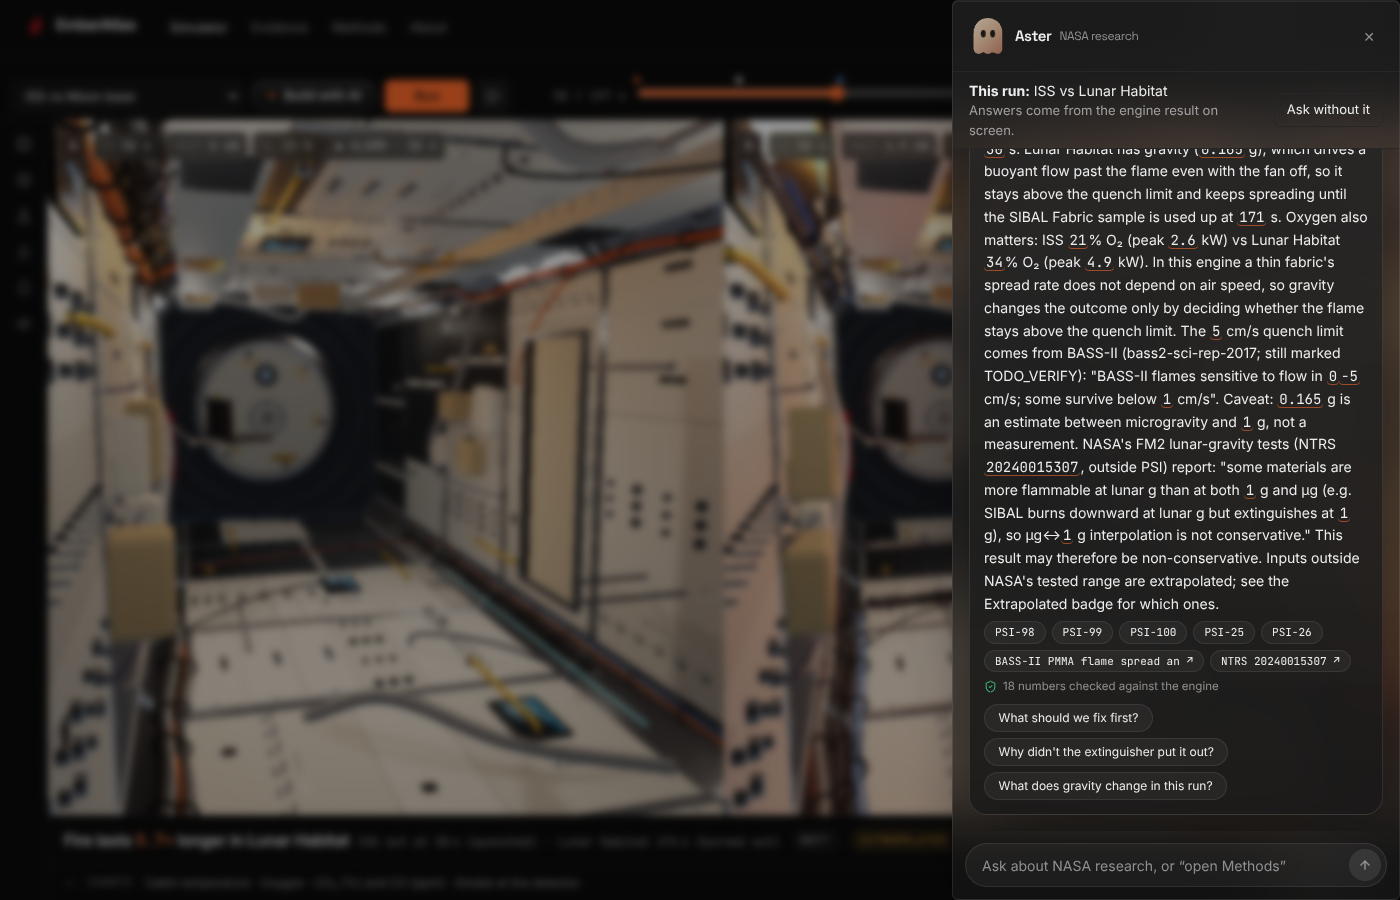
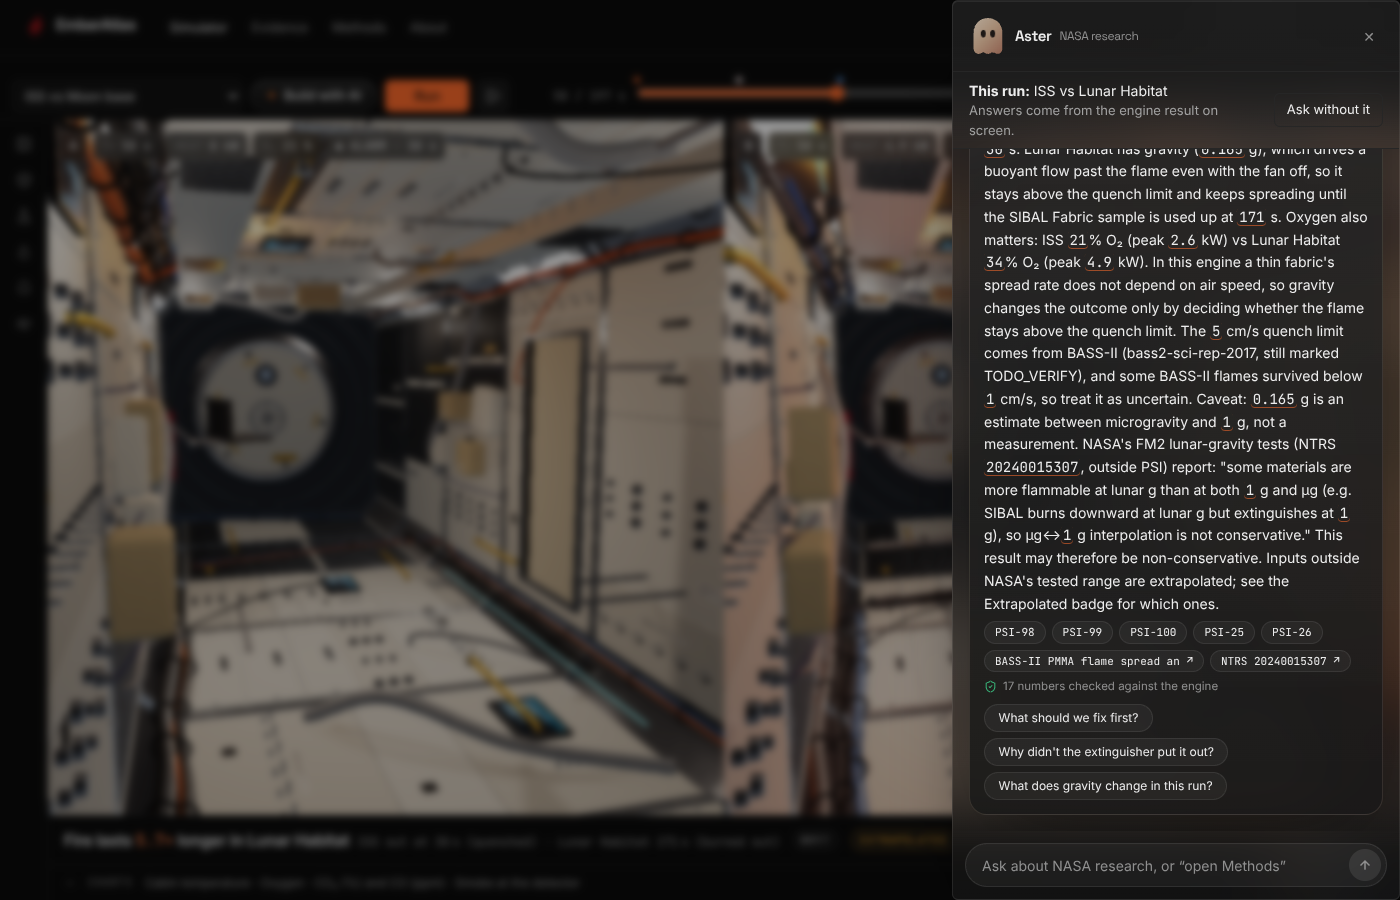
U2: in-page search on Methods and Evidence; fix Evidence PSI row double count
- lib/search/pageSearch.ts indexes the rendered page (sections, equation cards, limitations, validation rows,
  PSI dataset rows, SAFFIRE-II samples, materials, references) so it never drifts from what is shown.
  AND-prefix matching with title weighting, subscript/µ normalisation, snippets and <mark> highlights.
- components/search/PageSearch.tsx: '/' to focus, ↑/↓/Enter/Esc, ?q= kept in the URL, deep links open the
  collapsed equation card (also for Aster citations and shared links). Not a ⌘K palette.
- Evidence: '2,844 rows' counted the shared SAFFIRE table once per accession; now 2,818 like the landing page.
- Tests: tests/search.test.ts, e2e/upgrades.spec.ts (U2).

Claude-Session: https://claude.ai/code/session_01TpeYhpHZf9UxAWGPj4XFH7

Changed region(s): [[0.7064, 0.3733, 0.9829, 0.4978], [0.7679, 0.7467, 0.86, 0.7778]]

diff --git a/web/lib/search/pageSearch.ts b/web/lib/search/pageSearch.ts
@@ -1,0 +1,124 @@
+// SI-assisted: written with Claude Code (Anthropic); see README "Use of AI (SI)".
+// In-page full-text search (Methods, Evidence). The index is the rendered page itself, so it can never drift from
+// what the reader sees: sections, equation cards, limitations, validation rows, PSI dataset rows and references.
+// Pure functions (normalise / tokenise / score / snippet) are unit-tested; `indexDom` is the only DOM-reading code.
+
+export type HitKind = "Equation" | "Model" | "Section" | "Limitation" | "Validation" | "NASA dataset" | "Source" | "Sample" | "Material";
+export interface Entry { anchor: string; title: string; text: string; kind: HitKind }
+export interface Hit extends Entry { score: number; snippet: string }
+
+const SUB = "₀₁₂₃₄₅₆₇₈₉";
+/** Lower-case, subscript digits → digits, µ → u. Length-preserving so match offsets map back to the original text. */
+export function norm(s: string): string {
+  let o = "";
+  for (const ch of s.toLowerCase()) { const i = SUB.indexOf(ch); o += i >= 0 ? String(i) : ch === "µ" || ch === "μ" ? "u" : ch; }
+  return o;
+}
+export const tokens = (s: string): string[] => norm(s).match(/[a-z0-9]+/g) ?? [];
+
+export function kindOf(anchor: string, fallback: HitKind = "Section"): HitKind {
+  if (anchor.startsWith("eq-")) return "Equation";
+  if (anchor.startsWith("model-")) return "Model";
+  if (anchor.startsWith("source-")) return "Source";
+  if (anchor.startsWith("val-")) return "Validation";
+  if (/^psi-\d+$/.test(anchor)) return "NASA dataset";
+  if (anchor.startsWith("limit")) return "Limitation";
+  return fallback;
+}
+
+const KIND_BONUS: Record<HitKind, number> = { Equation: 1.5, "NASA dataset": 1.5, Limitation: 1.2, Material: 1.2, Model: 1, Validation: 1, Source: 0.8, Sample: 0.8, Section: 0.5 };
+
+/** Every query token must prefix-match a token of the entry (AND). Title hits weigh 4×; exact accession/id hits win. */
+export function search(entries: Entry[], query: string, k = 8): Hit[] {
+  const q = tokens(query);
+  if (!q.length) return [];
+  const out: Hit[] = [];
+  for (const e of entries) {
+    const tt = tokens(e.title), xt = tokens(e.text);
+    let score = 0, all = true;
+    for (const t of q) {
+      const inTitle = tt.some((w) => w.startsWith(t)), inText = xt.some((w) => w.startsWith(t));
+      if (!inTitle && !inText) { all = false; break; }
+      score += (inTitle ? 4 : 0) + (inText ? 1 : 0) + (tt.includes(t) || xt.includes(t) ? 0.5 : 0);
+    }
+    if (!all) continue;
+    if (norm(e.anchor).replace(/-/g, "") === q.join("")) score += 10; // "psi 25" / "eq sp1" → that entry
+    score += KIND_BONUS[e.kind] - Math.min(1, e.text.length / 4000);
+    out.push({ ...e, score, snippet: snippet(e.text, q) });
+  }
+  return out.sort((a, b) => b.score - a.score).slice(0, k);
+}
+
+/** ~160 characters around the first query-token match. */
+export function snippet(text: string, q: string[], width = 160): string {
+  const n = norm(text);
+  let at = -1;
+  for (const t of q) { const re = new RegExp(`(?:^|[^a-z0-9])${t.replace(/[.*+?^${}()|[\]\\]/g, "\\$&")}`); const m = re.exec(n); if (m && (at < 0 || m.index < at)) at = m.index; }
+  if (at < 0) return text.slice(0, width);
+  const start = Math.max(0, at - Math.floor(width / 3));
+  return `${start > 0 ? "…" : ""}${text.slice(start, start + width).trim()}${start + width < text.length ? "…" : ""}`;
+}
+
+/** Split `text` into [plain, match, plain, match…] parts for <mark> highlighting. */
+export function highlightParts(text: string, query: string): { s: string; hit: boolean }[] {
+  const q = tokens(query);
+  if (!q.length) return [{ s: text, hit: false }];
+  const n = norm(text);
+  const re = new RegExp(`(${q.map((t) => t.replace(/[.*+?^${}()|[\]\\]/g, "\\$&")).join("|")})`, "g");
+  const parts: { s: string; hit: boolean }[] = [];
+  let last = 0;
+  for (let m = re.exec(n); m; m = re.exec(n)) {
+    if (m.index > last) parts.push({ s: text.slice(last, m.index), hit: false });
+    parts.push({ s: text.slice(m.index, m.index + m[0].length), hit: true });
+    last = m.index + m[0].length;
+    if (m[0].length === 0) re.lastIndex++;
+  }
+  if (last < text.length) parts.push({ s: text.slice(last), hit: false });
+  return parts;
+}
+
+const clean = (s: string) => s.replace(/\s+/g, " ").replace(/\s+([.,;:)])/g, "$1").replace(/([(])\s+/g, "$1").trim();
+/** Text of an element with a space at every element boundary ("SP1" + "de Ris…" → "SP1 de Ris…"). */
+function textOf(node: Node): string {
+  let out = "";
+  const walk = (n: Node) => {
+    if (n.nodeType === 3) out += n.nodeValue ?? "";
+    else if (n.nodeType === 1) { out += " "; n.childNodes.forEach(walk); out += " "; }
+  };
+  walk(node);
+  return out;
+}
+
+/** Build the index from the rendered page. Items: anything with an id inside `root`, plus `[data-search-item]`. */
+export function indexDom(root: ParentNode): Entry[] {
+  const out: Entry[] = [];
+  const seen = new Set<string>();
+  const els = root.querySelectorAll<HTMLElement>("section[id], article[id], details[id], li[id], tr[id], [data-search-item], [data-search-items] > *");
+  els.forEach((el) => {
+    const anchor = el.id || el.closest<HTMLElement>("[id]")?.id || "";
+    if (!anchor) return;
+    const copy = el.cloneNode(true) as HTMLElement;
+    copy.querySelectorAll(".katex, button, [data-search-skip], script, style").forEach((x) => x.remove());
+    const headEl = [...el.querySelectorAll("h1, h2, h3, summary, strong, b, th, td, a")].find((x) => x.textContent?.trim());
+    const head = el.dataset.searchTitle ?? (headEl ? textOf(headEl) : el.id);
+    const title = clean(head).replace(/^\d{2}\s+/, "");
+    const text = clean(textOf(copy)).slice(0, 1200);
+    const key = `${anchor}|${title}`;
+    if (!title || seen.has(key)) return;
+    seen.add(key);
+    out.push({ anchor, title: title.length > 110 ? `${title.slice(0, 108)}…` : title, text, kind: kindOf(el.id || anchor, (el.dataset.searchKind as HitKind) || (el.parentElement?.dataset.searchItems as HitKind) || "Section") });
+  });
+  return out;
+}
+
+/** Scroll to an anchor, opening any <details> it sits in (equation cards are collapsed by default). */
+export function reveal(anchor: string, smooth = true): boolean {
+  const el = document.getElementById(anchor);
+  if (!el) return false;
+  if (el instanceof HTMLDetailsElement) el.open = true;
+  for (let p = el.parentElement; p; p = p.parentElement) if (p instanceof HTMLDetailsElement) p.open = true;
+  el.scrollIntoView({ behavior: smooth ? "smooth" : "auto", block: "start" });
+  el.classList.add("ea-search-target");
+  window.setTimeout(() => el.classList.remove("ea-search-target"), 1800);
+  return true;
+}

diff --git a/web/components/search/PageSearch.tsx b/web/components/search/PageSearch.tsx
@@ -1,0 +1,86 @@
+"use client";
+// SI-assisted: written with Claude Code (Anthropic); see README "Use of AI (SI)".
+// Inline search for Methods and Evidence (not a ⌘K palette): "/" focuses it, ↑/↓ moves, Enter opens the section,
+// Esc closes. Matches are highlighted; the query is kept in ?q= so a search can be shared; deep links open the
+// equation card they point into.
+import { Search, X } from "lucide-react";
+import { useEffect, useMemo, useRef, useState } from "react";
+import { highlightParts, indexDom, reveal, search, type Entry, type Hit } from "@/lib/search/pageSearch";
+
+function Mark({ text, q }: { text: string; q: string }) {
+  return <>{highlightParts(text, q).map((p, i) => (p.hit ? <mark key={i} className="ea-mark">{p.s}</mark> : <span key={i}>{p.s}</span>))}</>;
+}
+
+export function PageSearch({ placeholder, rootSelector = "main", testid = "page-search" }: { placeholder: string; rootSelector?: string; testid?: string }) {
+  const input = useRef<HTMLInputElement>(null);
+  const [q, setQ] = useState("");
+  const [open, setOpen] = useState(false);
+  const [active, setActive] = useState(0);
+  const [entries, setEntries] = useState<Entry[]>([]);
+  const hits: Hit[] = useMemo(() => search(entries, q, 8), [entries, q]);
+  const build = () => { const root = document.querySelector(rootSelector); if (root) setEntries(indexDom(root)); };
+
+  useEffect(() => {
+    build();
+    const url = new URL(window.location.href);
+    const q0 = url.searchParams.get("q");
+    if (q0) { setQ(q0); setOpen(true); }
+    // Deep links (Aster citations, shared URLs) into a collapsed equation card: open it.
+    if (url.hash.length > 1) window.setTimeout(() => reveal(decodeURIComponent(url.hash.slice(1)), false), 60);
+    const onKey = (e: KeyboardEvent) => {
+      const t = e.target as HTMLElement | null;
+      if (e.key === "/" && !e.metaKey && !e.ctrlKey && !(t && (t.isContentEditable || /^(INPUT|TEXTAREA|SELECT)$/.test(t.tagName)))) { e.preventDefault(); input.current?.focus(); }
+    };
+    window.addEventListener("keydown", onKey);
+    return () => window.removeEventListener("keydown", onKey);
+    // eslint-disable-next-line react-hooks/exhaustive-deps
+  }, []);
+
+  const syncUrl = (v: string) => {
+    const url = new URL(window.location.href);
+    if (v.trim()) url.searchParams.set("q", v.trim()); else url.searchParams.delete("q");
+    window.history.replaceState(window.history.state, "", url);
+  };
+  const go = (h: Hit) => {
+    const reduce = window.matchMedia?.("(prefers-reduced-motion: reduce)").matches;
+    window.history.replaceState(window.history.state, "", `${window.location.pathname}${window.location.search}#${h.anchor}`);
+    reveal(h.anchor, !reduce);
+    setOpen(false);
+  };
+
+  return (
+    <div className="relative w-full max-w-[640px]" data-testid={testid} data-noprint>
+      <label className="sr-only" htmlFor={`${testid}-input`}>Search this page</label>
+      <div className="flex h-10 items-center gap-2 rounded-[6px] border border-line bg-panel px-3 focus-within:border-mute focus-within:ring-1 focus-within:ring-mute/40">
+        <Search size={15} strokeWidth={1.5} className="shrink-0 text-faint" aria-hidden />
+        <input ref={input} id={`${testid}-input`} type="text" inputMode="search" enterKeyHint="search" role="combobox" aria-expanded={open && q.trim().length > 0} aria-controls={`${testid}-results`}
+          aria-activedescendant={open && hits[active] ? `${testid}-opt-${active}` : undefined} autoComplete="off" spellCheck={false}
+          className="ea-search-input h-full min-w-0 flex-1 border-0 bg-transparent p-0 text-[14px]" placeholder={placeholder} value={q}
+          onFocus={() => { build(); setOpen(true); }}
+          onChange={(e) => { setQ(e.target.value); setActive(0); setOpen(true); syncUrl(e.target.value); }}
+          onKeyDown={(e) => {
+            if (e.key === "ArrowDown") { e.preventDefault(); setActive((i) => Math.min(i + 1, Math.max(0, hits.length - 1))); }
+            else if (e.key === "ArrowUp") { e.preventDefault(); setActive((i) => Math.max(0, i - 1)); }
+            else if (e.key === "Enter" && hits[active]) { e.preventDefault(); go(hits[active]); }
+            else if (e.key === "Escape") { setOpen(false); input.current?.blur(); }
+          }}
+          onBlur={() => window.setTimeout(() => setOpen(false), 150)} />
+        {q ? <button type="button" aria-label="Clear search" className="text-faint hover:text-ink" onClick={() => { setQ(""); syncUrl(""); input.current?.focus(); }}><X size={14} strokeWidth={1.5} /></button>
+          : <span className="ea-kbd" aria-hidden>/</span>}
+      </div>
+      {open && q.trim() && (
+        <ul id={`${testid}-results`} role="listbox" aria-label="Search results" className="absolute inset-x-0 top-11 z-40 max-h-[60vh] overflow-auto rounded-[8px] border border-line bg-panel p-1 shadow-xl">
+          {hits.length === 0 && <li className="px-3 py-2.5 text-[13px] text-mute" role="option" aria-selected={false}>No match on this page for “{q.trim()}”.</li>}
+          {hits.map((h, i) => (
+            <li key={`${h.anchor}-${i}`} id={`${testid}-opt-${i}`} role="option" aria-selected={i === active} data-testid="search-hit"
+              className={`cursor-pointer rounded-[6px] px-3 py-2 ${i === active ? "bg-surface2" : ""}`}
+              onMouseEnter={() => setActive(i)} onMouseDown={(e) => { e.preventDefault(); go(h); }}>
+              <div className="flex items-baseline gap-2"><span className="ea-meta shrink-0 !text-[10px]">{h.kind}</span><span className="min-w-0 truncate text-[13px] font-medium text-ink"><Mark text={h.title} q={q} /></span></div>
+              <p className="mt-0.5 line-clamp-2 text-[12px] text-mute"><Mark text={h.snippet} q={q} /></p>
+            </li>
+          ))}
+        </ul>
+      )}
+    </div>
+  );
+}

diff --git a/web/components/evidence/EvidencePage.tsx b/web/components/evidence/EvidencePage.tsx
@@ -12,6 +12,7 @@ import { cn } from "@/lib/utils";
 import { earthVsOrbitSummary, evidenceStops } from "@/lib/sim/evidence";
 import { sig } from "@/lib/ui/format";
 import { ExperimentMatch } from "@/components/match/ExperimentMatch";
+import { PageSearch } from "@/components/search/PageSearch";
 
 type Range = [number, number] | null;
 const pct = (x: number | null | undefined) => (x == null ? "—" : sig(x * 100, 3));
@@ -61,6 +62,7 @@ export function EvidencePage() {
         <p className="label">NASA PSI evidence</p>
         <h1 className="display mt-2 text-[clamp(2rem,5vw,3.6rem)] leading-none">What NASA has tested, and where it stops.</h1>
         <p className="measure mt-3 text-base text-mute">Compare flight results, see where test coverage ends, or find an experiment for your mission.</p>
+        <div className="mt-5"><PageSearch placeholder="Search NASA datasets, materials, samples, PSI numbers…" testid="evidence-search" /></div>
         <nav className="ea-jumps mt-5 lg:hidden" aria-label="Evidence jump links">
           {TOC.map(([id, l]) => <a key={id} href={`#${id}`}>{l}</a>)}
         </nav>
@@ -93,7 +95,7 @@ export function EvidencePage() {
             <tbody>
               {rows.map((r, i) => (
                 <Fragment key={`${r.sample}-${i}`}>
-                <tr className="cursor-pointer" aria-expanded={open === i} tabIndex={0} onClick={() => setOpen(open === i ? null : i)} onKeyDown={(e) => (e.key === "Enter" || e.key === " ") && (e.preventDefault(), setOpen(open === i ? null : i))}>
+                <tr data-search-item data-search-kind="Sample" data-search-title={`SAFFIRE-II sample ${r.sample}`} className="cursor-pointer" aria-expanded={open === i} tabIndex={0} onClick={() => setOpen(open === i ? null : i)} onKeyDown={(e) => (e.key === "Enter" || e.key === " ") && (e.preventDefault(), setOpen(open === i ? null : i))}>
                   <td className="text-faint"><ChevronRight size={12} strokeWidth={1.5} className={cn("transition-transform", open === i && "rotate-90")} /></td>
                   <td className="num">{r.sample}</td><td>{r.material}</td><td className="num ea-numeric">{r.thickness}{/^0\d/.test(String(r.thickness)) && <span className="text-warn" title="Raw PSI-99 cell, shown as written (decimal point likely missing)"> †</span>}</td>
                   <td className="num ea-numeric">{r.x_o2_lo === r.x_o2_hi || r.x_o2_hi == null ? pct(r.x_o2_lo) : `${pct(r.x_o2_lo)}–${pct(r.x_o2_hi)}`}%</td>
@@ -127,7 +129,7 @@ export function EvidencePage() {
         <div className="ea-table-scroll ea-research-table overflow-x-auto" tabIndex={0} role="region" aria-labelledby="stops-h">
           <table className="data">
             <thead><tr><th>material</th><th className="ea-numeric">tested O₂ %</th><th className="ea-numeric">tested pressure kPa</th><th className="ea-numeric">tested flow cm/s</th><th>investigations</th></tr></thead>
-            <tbody>
+            <tbody data-search-items="Material">
               {stops.rows.map((r) => (
                 <tr key={r.material_key}>
                   <td>{r.display_name}</td>
@@ -146,7 +148,7 @@ export function EvidencePage() {
 
       <section id="psi-datasets" aria-labelledby="psi-h" className="ea-evidence-section space-y-4 scroll-mt-24">
         <h2 id="psi-h" className="text-[22px] font-semibold tracking-[-0.02em]">NASA PSI datasets in EmberAtlas<CopyLink id="psi-datasets" label="PSI datasets" /></h2>
-        <p className="measure text-mute"><span className="num">{psi.length}</span> accessions, <span className="num">{psi.reduce((s, p) => s + p.rows, 0).toLocaleString("en-US")}</span> rows with provenance. Click a dataset for its source files.</p>
+        <p className="measure text-mute"><span className="num">{psi.length}</span> accessions, <span className="num">{(tablesIndex as Table[]).reduce((s, t) => s + t.rows, 0).toLocaleString("en-US")}</span> rows with provenance (a table shared by several accessions is counted once). Click a dataset for its source files.</p>
         <div className="ea-table-scroll overflow-x-auto" role="region" aria-labelledby="psi-h" tabIndex={0}>
           <table className="data">
             <thead><tr><th className="w-6" aria-label="Expand" /><th>accession</th><th>investigation</th><th className="ea-numeric">rows</th></tr></thead>

diff --git a/web/tests/search.test.ts b/web/tests/search.test.ts
@@ -1,0 +1,41 @@
+// SI-assisted: written with Claude Code (Anthropic); see README "Use of AI (SI)".
+// U2: in-page search over Methods and Evidence.
+import { describe, expect, it } from "vitest";
+import { highlightParts, kindOf, norm, search, snippet, tokens, type Entry } from "@/lib/search/pageSearch";
+
+const E: Entry[] = [
+  { anchor: "eq-SP1", kind: "Equation", title: "SP1 de Ris thin-fuel spread (full thickness d)", text: "Estimates how quickly flame advances along thin fuel. Vthin: speed (m/s)" },
+  { anchor: "psi-25", kind: "NASA dataset", title: "PSI-25 BASS-II", text: "Burning and Suppression of Solids - II, 129 rows" },
+  { anchor: "limitations", kind: "Limitation", title: "Gravity only switches the low-flow quench.", text: "For a thin fuel, the de Ris spread rate does not depend on the opposed-flow speed…" },
+  { anchor: "source-ntrs-20240015307", kind: "Source", title: "FM2 (Flammability of Materials on the Moon), NTRS 20240015307", text: "ntrs-20240015307 · 2024" },
+  { anchor: "where-evidence-stops", kind: "Material", title: "SIBAL Fabric", text: "SIBAL Fabric 14.7–22.1 PSI-98, PSI-99, PSI-100" },
+];
+
+describe("page search", () => {
+  it("normalises subscripts and µ so 'CO2' finds 'CO₂' and 'ug' finds 'µg'", () => {
+    expect(norm("CO₂ µg")).toBe("co2 ug");
+    expect(norm("CO₂ µg").length).toBe("CO₂ µg".length);
+  });
+  it("AND-matches prefixes and ranks title hits first", () => {
+    const h = search(E, "thin spread");
+    expect(h[0].anchor).toBe("eq-SP1");
+    expect(h.map((x) => x.anchor)).toContain("limitations");
+  });
+  it("exact accession query jumps to the dataset", () => expect(search(E, "psi 25")[0].anchor).toBe("psi-25"));
+  it("finds materials, FM2 and the gravity limitation", () => {
+    expect(search(E, "sibal")[0].kind).toBe("Material");
+    expect(search(E, "moon")[0].anchor).toBe("source-ntrs-20240015307");
+    expect(search(E, "gravity quench")[0].kind).toBe("Limitation");
+  });
+  it("returns nothing for a missing term (no fuzzy invention)", () => expect(search(E, "parchment")).toEqual([]));
+  it("highlights every query token and builds a snippet around the first match", () => {
+    const parts = highlightParts("Burning and Suppression of Solids", "supp sol");
+    expect(parts.filter((p) => p.hit).map((p) => p.s)).toEqual(["Supp", "Sol"]);
+    expect(snippet("x ".repeat(200) + "quench here", tokens("quench"))).toContain("quench");
+  });
+  it("infers kinds from anchors", () => {
+    expect(kindOf("eq-DR1")).toBe("Equation");
+    expect(kindOf("psi-100")).toBe("NASA dataset");
+    expect(kindOf("val-V1")).toBe("Validation");
+  });
+});

diff --git a/web/app/methods/page.tsx b/web/app/methods/page.tsx
@@ -1,6 +1,7 @@
 // SI-assisted: written with Claude Code (Anthropic); see README "Use of AI (SI)".
 // Plain-language methods: engine loop, sub-models + calibration source, validation, limitations, data, use of AI.
 import { AskAsterButton } from "@/components/AskAsterButton";
+import { PageSearch } from "@/components/search/PageSearch";
 import fs from "node:fs";
 import path from "node:path";
 import { EQUATIONS } from "@/lib/equations";
@@ -77,6 +78,7 @@ export default function Methods() {
         <h1 className="display mt-3 text-4xl md:text-7xl">Methods &amp; validation</h1>
         <p className="measure mt-4 text-lg leading-relaxed text-mute">Follow a simulation from its equations to the NASA experiments and validation checks behind it.</p>
         <p className="next-step mt-4"><span className="next-step__tag">Next step</span><span>Pick a model in <a className="underline underline-offset-2" href="#overview">Models at a glance</a>, then open one of its formula cards.</span></p>
+        <div className="mt-5"><PageSearch placeholder="Search equations, assumptions, limits, sources…" testid="methods-search" /></div>
         <nav className="ea-jumps mt-5" aria-label="Methods shortcuts">
           <a href="#overview">Browse models</a>
           <a href="#models">Find a formula</a>
@@ -98,7 +100,7 @@ export default function Methods() {
       <section id="loop" className="card space-y-2">
         <h2 className="text-[20px] font-semibold"><span className="methods-num">01</span>How a run works</h2>
         <p className="measure text-mute">You describe a cabin (or load a preset). The engine then repeats these steps every half second. The same inputs and seed always give the same result.</p>
-        <ol className="methods-steps">{LOOP.map((s, i) => <li key={i}>{s}</li>)}</ol>
+        <ol className="methods-steps" data-search-items="Section">{LOOP.map((s, i) => <li key={i}>{s}</li>)}</ol>
       </section>
 
       <section id="overview" className="card space-y-3">

diff --git a/web/e2e/upgrades.spec.ts b/web/e2e/upgrades.spec.ts
@@ -22,3 +22,29 @@ test("U1: Aster answers the Moon question from the run, with numbers and NASA ci
   await expect(page.getByTestId("aster-followups")).toBeVisible();
   await page.screenshot({ path: shot("aster-run") });
 });
+
+test("U2: Methods search finds an equation, highlights it and opens the collapsed card", async ({ page }) => {
+  await page.goto("/methods");
+  await page.keyboard.press("/");
+  await expect(page.locator("#methods-search-input")).toBeFocused();
+  await page.keyboard.type("thin fuel spread");
+  const hits = page.getByTestId("search-hit");
+  await expect(hits.first()).toContainText("Equation");
+  await expect(hits.first().locator("mark").first()).toBeVisible();
+  await page.screenshot({ path: shot("methods-search") });
+  await page.keyboard.press("Enter");
+  await expect(page).toHaveURL(/#eq-SP1/);
+  await expect(page.locator("details#eq-SP1")).toHaveAttribute("open", "");
+  await page.goto("/methods?q=quench");
+  await expect(page.getByTestId("search-hit").first()).toBeVisible();
+});
+
+test("U2: Evidence search finds a PSI dataset by number and deep-links to it", async ({ page }) => {
+  await page.goto("/evidence");
+  await page.locator("#evidence-search-input").fill("psi 25");
+  await expect(page.getByTestId("search-hit").first()).toContainText("PSI-25");
+  await page.keyboard.press("Enter");
+  await expect(page).toHaveURL(/#psi-25/);
+  await page.locator("#evidence-search-input").fill("sibal");
+  await expect(page.getByTestId("search-hit").first()).toContainText(/Material|Sample/);
+});

diff --git a/web/app/globals.css b/web/app/globals.css
@@ -539,3 +539,8 @@ select { height: 2rem; background: rgb(var(--panel)); }
   .ea-thinking-stage__orb::after { animation: ea-thinking-orbit 1.8s linear infinite; }
 }
 @keyframes ea-thinking-orbit { to { transform: rotate(360deg); } }
+
+/* In-page search (Methods, Evidence) */
+.ea-mark { background: rgb(var(--ember) / .22); color: rgb(var(--ink)); border-radius: 2px; padding: 0 1px; }
+.ea-search-target { outline: 1px solid rgb(var(--mute)); outline-offset: 4px; border-radius: 8px; }
+.ea-search-input, .ea-search-input:focus, .ea-search-input:focus-visible { outline: none !important; box-shadow: none !important; border: 0 !important; background: transparent !important; }
